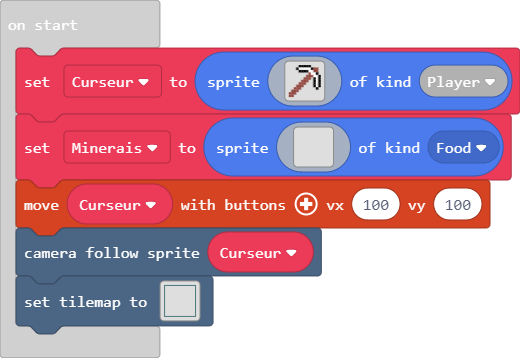
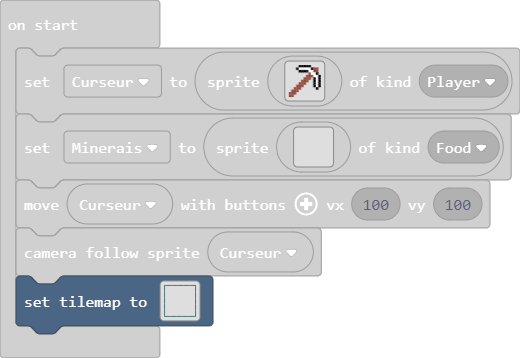
Update main.blocks, main.ts

diff --git a/main.ts b/main.ts
@@ -71,7 +71,7 @@ let Minerais = sprites.create(img`
 controller.moveSprite(Curseur, 100, 100)
 scene.cameraFollowSprite(Curseur)
 tiles.setTilemap(tiles.createTilemap(
[2 lines of base64/hex data omitted]
             img`
 2 2 2 2 2 2 2 2 2 2 2 2 2 2 2 2 2 2 2 2 2 2 2 2 2 2 2 2 2 2 2 2 
 2 . . . . . . . . . . . . . . . . . . . . . . . . . . . . . . 2 
@@ -106,6 +106,6 @@ tiles.setTilemap(tiles.createTilemap(
 2 . . . . . . . . . . . . . . . . . . . . . . . . . . . . . . 2 
 2 2 2 2 2 2 2 2 2 2 2 2 2 2 2 2 2 2 2 2 2 2 2 2 2 2 2 2 2 2 2 2 
 `,
-            [myTiles.tile0,sprites.castle.tileGrass3,sprites.castle.tileGrass1,sprites.castle.tileGrass2,sprites.dungeon.greenOuterEast0,sprites.dungeon.greenOuterNorth0,sprites.dungeon.greenOuterNorthWest,sprites.dungeon.greenOuterNorthEast,sprites.dungeon.greenOuterSouthWest,sprites.dungeon.greenOuterSouth0,sprites.dungeon.greenOuterSouth1,sprites.dungeon.greenOuterSouthEast,sprites.dungeon.greenOuterWest1,sprites.dungeon.greenOuterWest0],
+            [myTiles.tile0,sprites.castle.tileGrass3,sprites.castle.tileGrass1,sprites.castle.tileGrass2,sprites.dungeon.greenOuterEast0,sprites.dungeon.greenOuterNorth0,sprites.dungeon.greenOuterNorthWest,sprites.dungeon.greenOuterNorthEast,sprites.dungeon.greenOuterSouthWest,sprites.dungeon.greenOuterSouth0,sprites.dungeon.greenOuterSouth1,sprites.dungeon.greenOuterSouthEast,sprites.dungeon.greenOuterWest1,sprites.dungeon.greenOuterWest0,sprites.castle.tileDarkGrass1,sprites.dungeon.greenOuterNorth2,sprites.dungeon.greenOuterEast2,sprites.dungeon.greenOuterWest2,sprites.dungeon.greenOuterSouth2],
             TileScale.Sixteen
         ))
